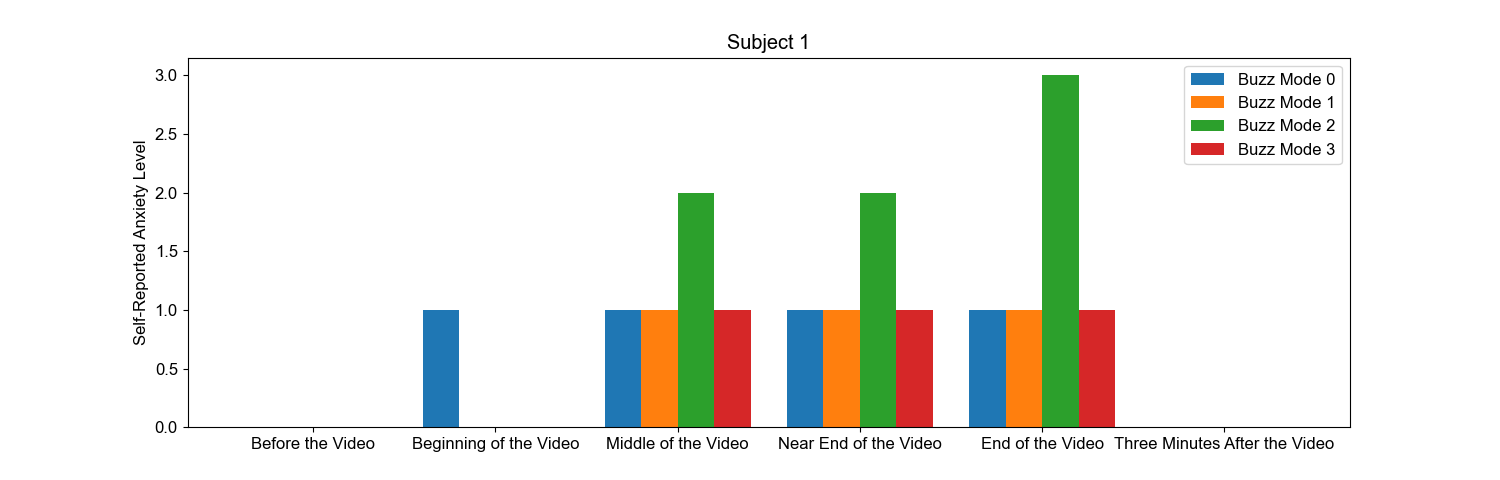
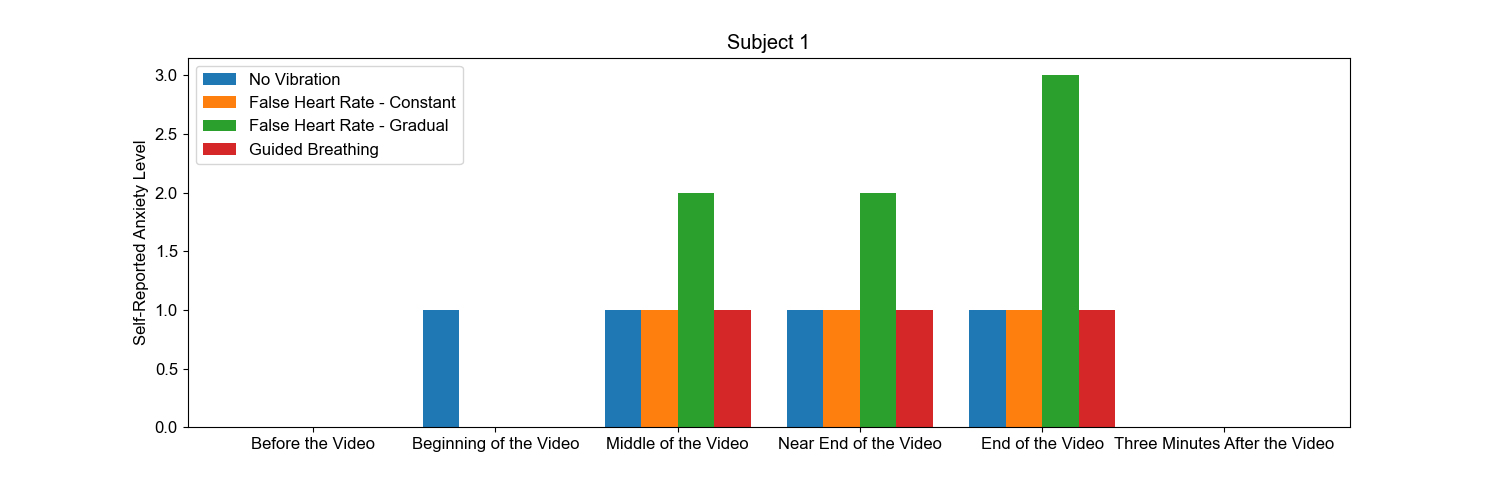
changed legend

Changed region(s): [[0.1227, 0.125, 0.3067, 0.3438], [0.7667, 0.125, 0.8893, 0.3438]]

diff --git a/Data Analysis/analysis.py b/Data Analysis/analysis.py
@@ -267,6 +267,7 @@ def subjectAnova(subjects: list[Subject]):
         csv_writer.writerows(anovaRows)
 
 def graphAnxietyBySubject(subjects: list[Subject]):
+    buzzModes = ["No Vibration", "False Heart Rate - Constant", "False Heart Rate - Gradual", "Guided Breathing"]
     labels = ["Before the Video", "Beginning of the Video", "Middle of the Video", "Near End of the Video", "End of the Video", "Three Minutes After the Video"]
     keys = ['Before Video', 'Beginning of Video', 'overall ', 'Near the end of Video', 'Immediately after the video', 'Three minutes after video']
     ticks = range(len(labels))
@@ -279,7 +280,7 @@ def graphAnxietyBySubject(subjects: list[Subject]):
         for buzzMode in range(4):
             y = [subject.anxiety[buzzMode][key] for key in keys]
             x = [tick + width*(buzzMode-2) for tick in ticks]
-            plt.bar(x, y, width=width, align="edge", label=f"Buzz Mode {buzzMode}")
+            plt.bar(x, y, width=width, align="edge", label=buzzModes[buzzMode])
         plt.legend()
         plt.savefig(f"figures/AnxietySubject{subject.num}")
         
@@ -298,9 +299,9 @@ rcParams.update({'font.size': 12})
 
 #graphCompareSensors(subjects)
 #graphAnxiety(subjects)
-graphCompareBuzzModes(subjects)
+#graphCompareBuzzModes(subjects)
 #anovaAnxiety(subjects)
 #subjectAnova(subjects)
-#graphAnxietyBySubject(subjects)
+graphAnxietyBySubject(subjects)
 
 print("done")
